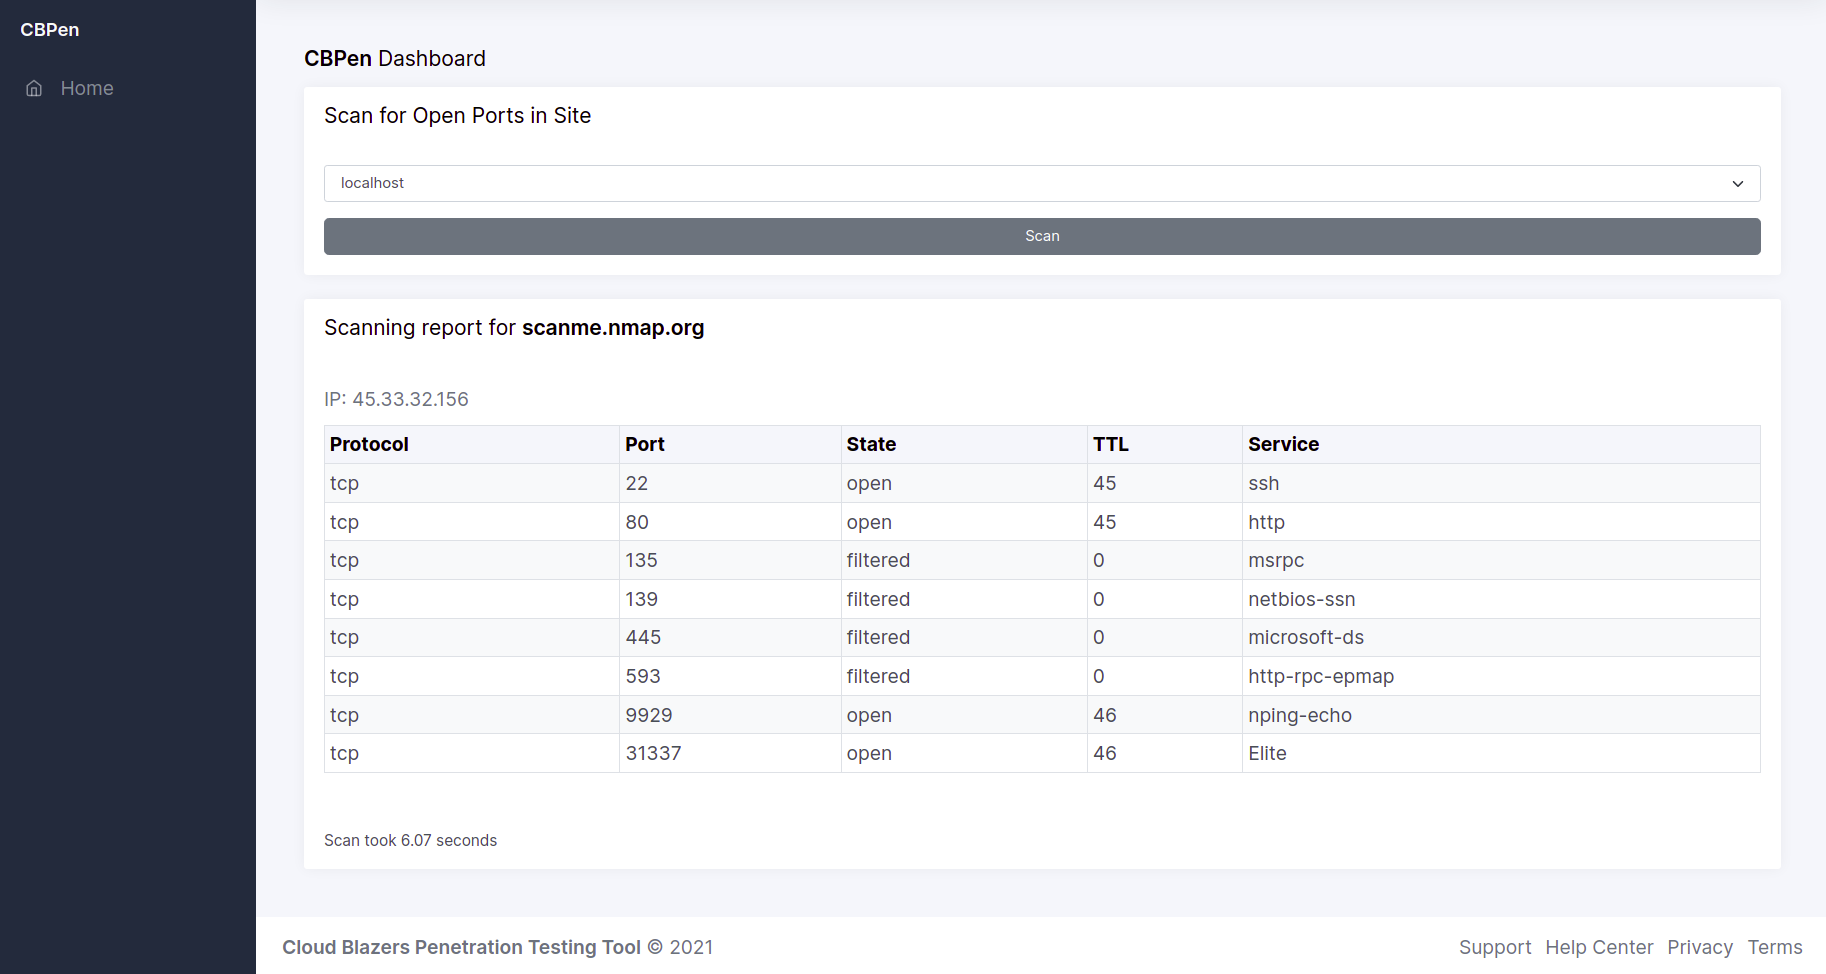
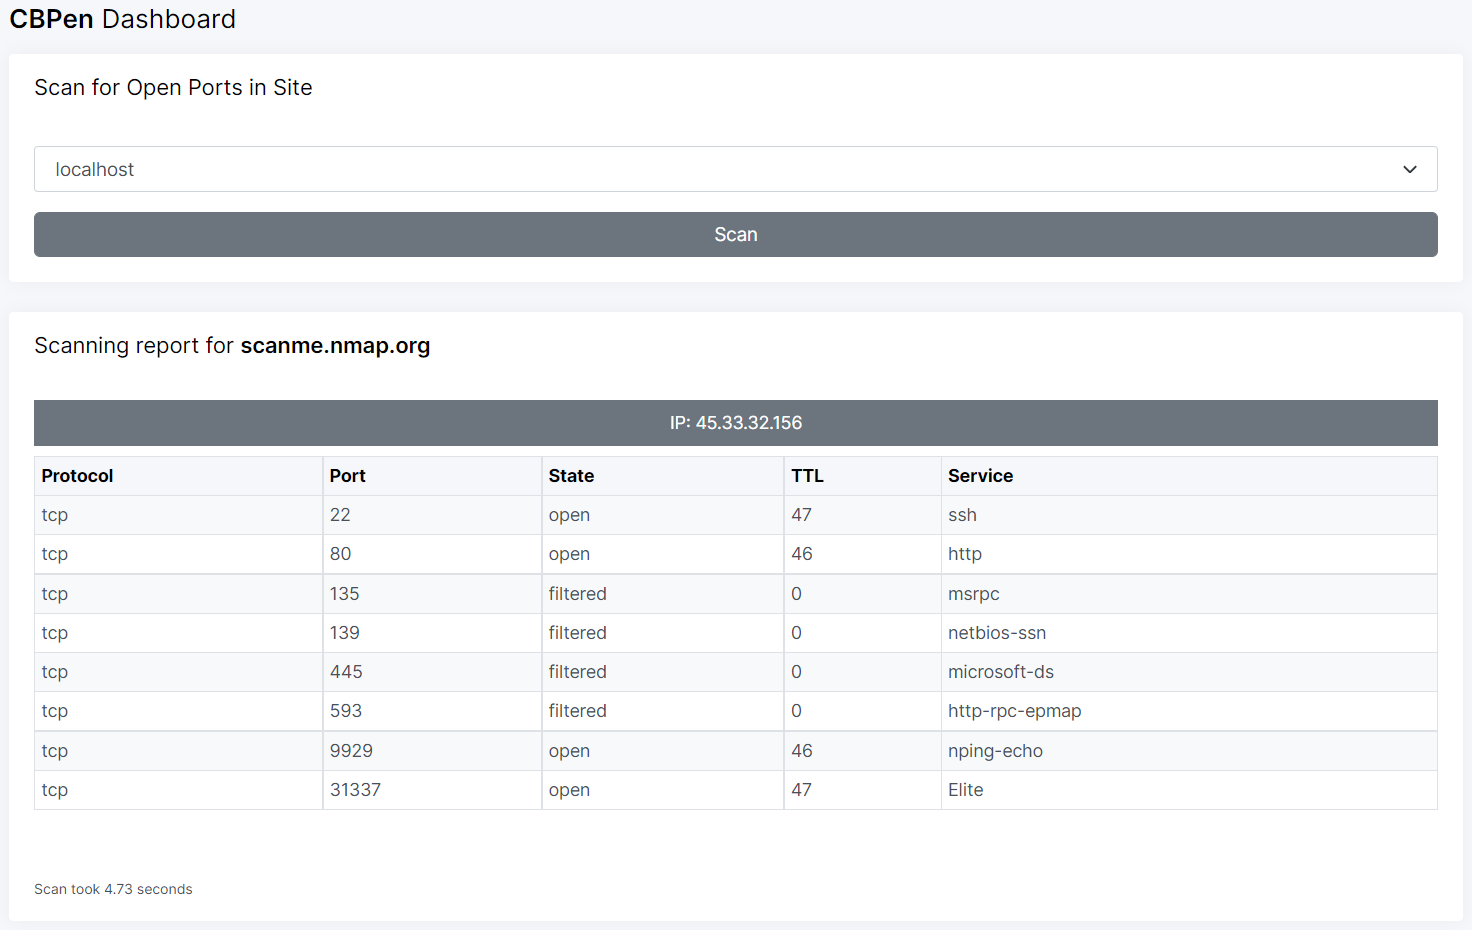
added Windows setup and modified report style

diff --git a/templates/index.html b/templates/index.html
@@ -8,7 +8,7 @@
         <div class="col-12">
             <div class="card">
                 <div class="card-header">
-                    <h3 class="mb-0">Scan for Open Ports in Site</h3>
+                    <h4 class="mb-0">Scan for Open Ports in Site</h4>
                 </div>
                 <div class="card-body">
                     <form method="post" action="{{ url_for('index') }}">
@@ -29,14 +29,17 @@
             {% if site %}
                 <div class="card">
                     <div class="card-header">
-                        <h3 class="mb-0">Scanning report for <b>{{ site }}</b>
-                        </h3>
+                        <h4 class="mb-0">
+                            Scanning report for <b>{{ site }}</b>
+                        </h4>
                     </div>
                     <div class="card-body">
                         {% if hosts %}
                             {% for host in hosts %}
                                 <table class="table table-sm table-bordered table-striped caption-top">
-                                    <caption class="card-subtitle">IP: {{ host.host }}</caption>
+                                    <caption class="card-subtitle text-center p-2 mb-2 bg-secondary text-white">
+                                        IP: {{ host.host }}
+                                    </caption>
                                     <thead class="table-light">
                                     <tr>
                                         <th>Protocol</th>

diff --git a/static/css/custom.css b/static/css/custom.css
@@ -1,3 +1,2 @@
 body{
-    font-size: 120%;
 }

diff --git a/app.py b/app.py
@@ -8,7 +8,7 @@ app = Flask(__name__)
 
 @app.route('/', methods=['GET', 'POST'])
 def index():
-    sites = ["localhost", "scanme.nmap.org"]
+    sites = ["localhost", "scanme.nmap.org", "example.com"]
     if request.method == "POST":
         site = request.form["site"]
         # open_ports, total_time = get_open_ports(site, common=True)

diff --git a/readme.md b/readme.md
@@ -7,29 +7,46 @@ Cloud Blazers Penetration Testing Tool
 ### Requirements
 - Python 3
 - Pip
-- nmap
+- nmap:
+Windows users, please download and install [latest stable release self-installer nmap-7.92-setup.exe](https://nmap.org/dist/nmap-7.92-setup.exe) 
 - Internet connection
 
 ### Install dependencies
 - Clone the repository.
-- Open a terminal in the cloned repository.
+- Open a terminal / powershell in the cloned repository.
 - Create a virtual environment and activate it.
 If you are using Linux / Mac:
 ```commandline
 python3 -m venv venv
 source venv/bin/activate
 ```
-If you are using Windows (Untested):
+Create and activate `venv` in Windows (Tested in Windows 10):
 ```commandline
-py -3 -m venv venv
-venv\Scripts\activate.bat
+python -m venv venv
+Set-ExecutionPolicy -ExecutionPolicy RemoteSigned -Scope CurrentUser
+.\venv\Scripts\Activate.ps1
 ```
+After activate the terminal / powershell will have `(venv)` added to the prompt.
+- Check `pip` version:
+```commandline
+pip --version
+```
+It should point to the `pip` in the activated `venv`.
 - Install required packages:
 ```commandline
 pip install -r requirements.txt
 ```
 
 ### Run the project
+- Activate the `venv` if not activated:
+Linux / Mac:
+```commandline
+source venv/bin/activate
+```
+Windows:
+```commandline
+.\venv\Scripts\Activate.ps1
+```
 - To run the project call `flask run` command. It will invoke the environment variables which are set in [.flaskenv](./.flaskenv) file:
 ```commandline
 flask run
@@ -70,3 +87,4 @@ docker system prune -a
 - [Icons class in template](https://demo-basic.adminkit.io/icons-feather.html)
 - [Virtual environments for Flask app](https://flask.palletsprojects.com/en/2.0.x/installation/#virtual-environments)
 - [Python3 nmap package](https://pypi.org/project/python3-nmap/)
+- [Latest stable release self-installer nmap-7.92-setup.exe](https://nmap.org/dist/nmap-7.92-setup.exe)
